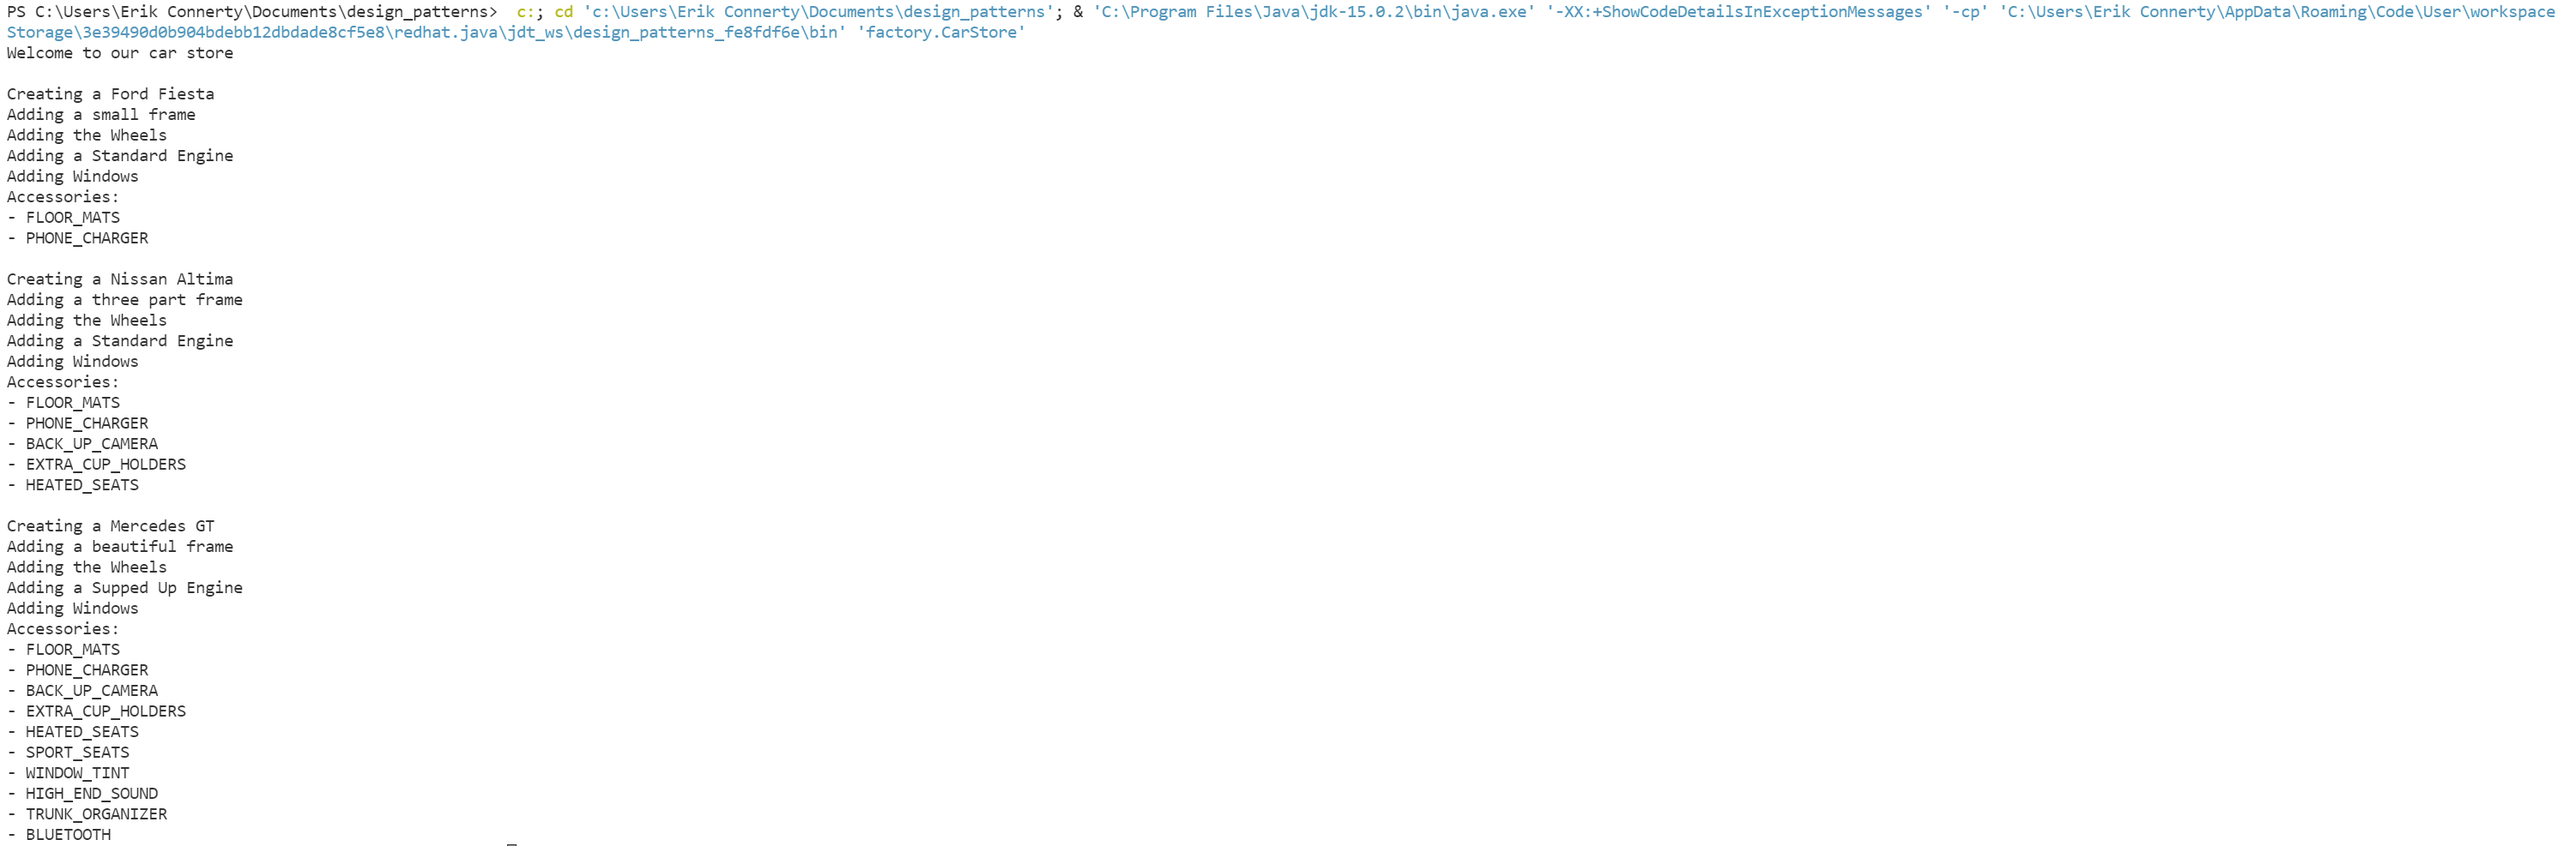
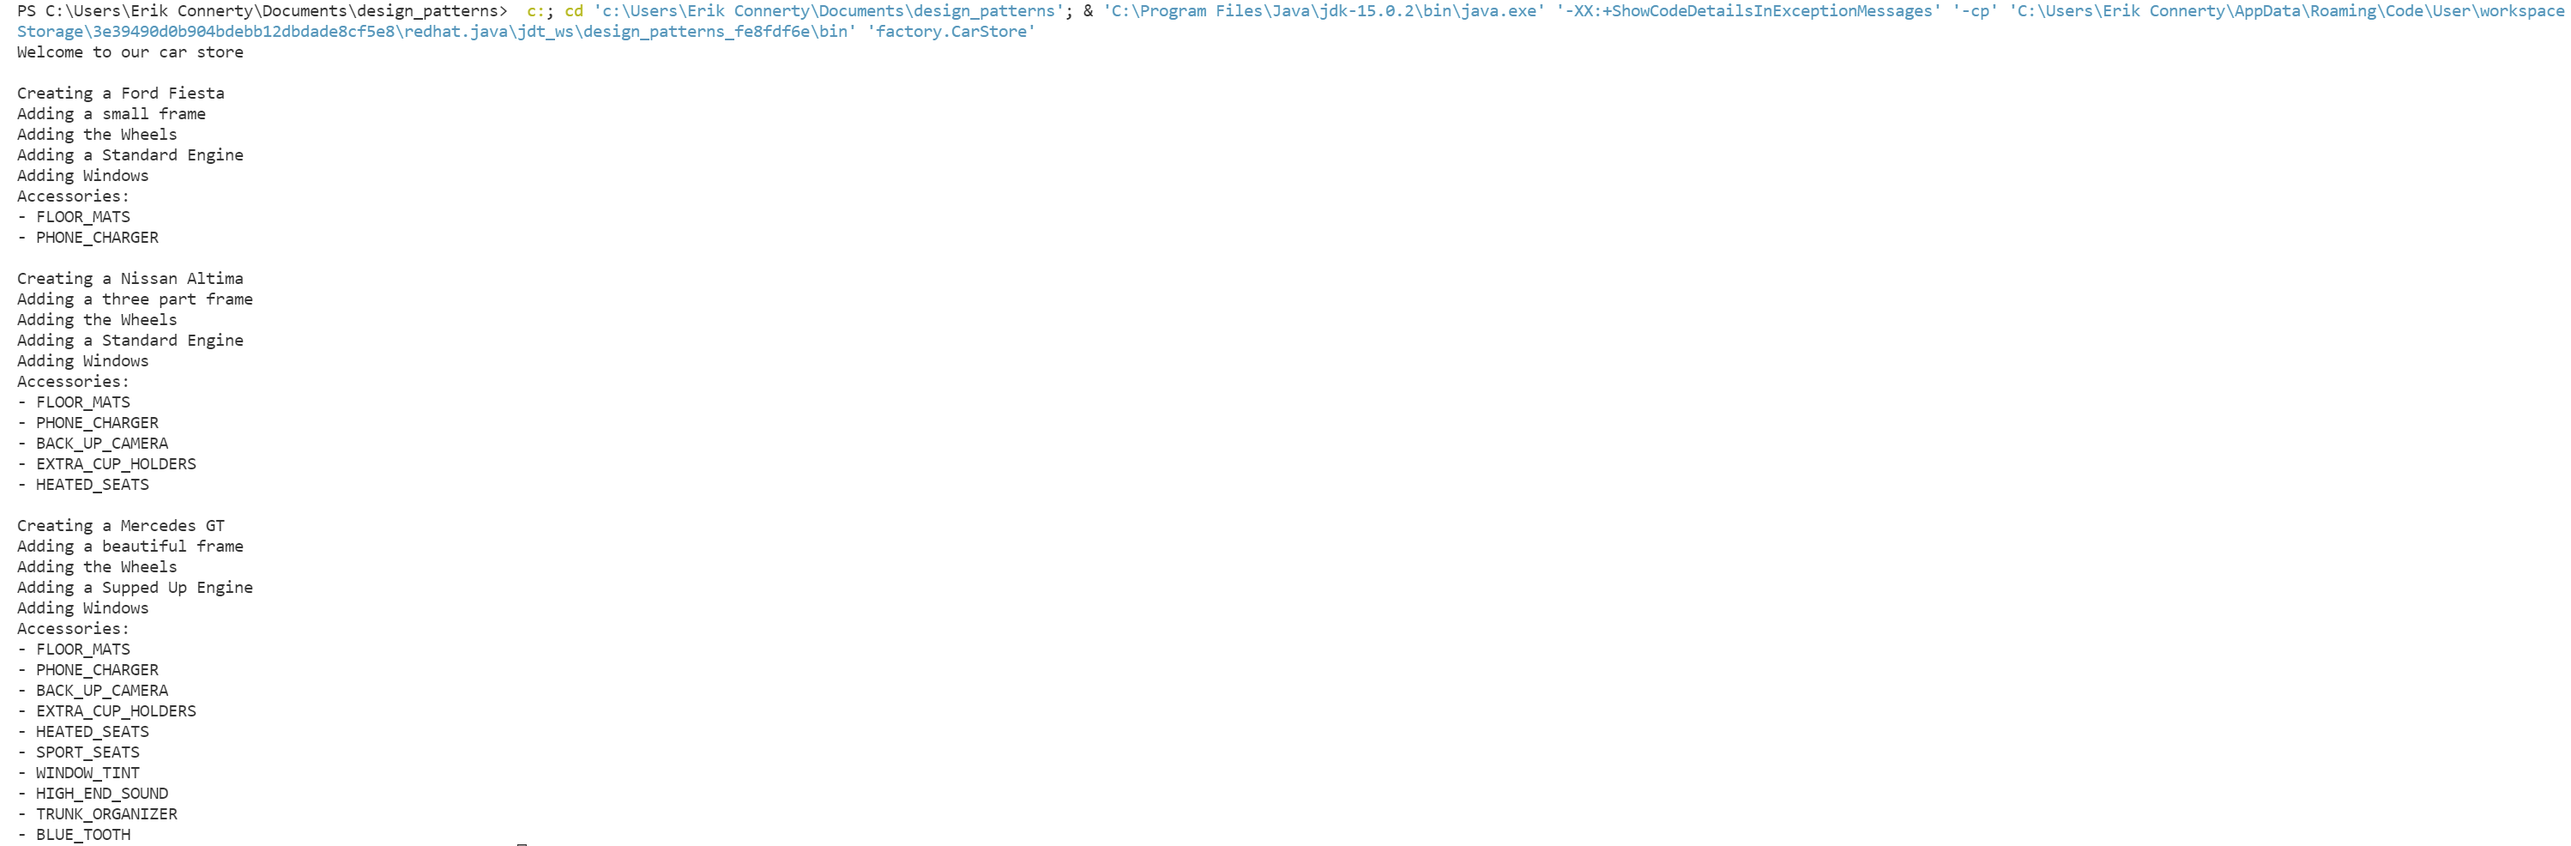
Fix typo

Changed region(s): [[0.0, 0.0, 1.0, 0.5781], [0.0, 0.6085, 0.0931, 1.0]]

diff --git a/factory/Accessories.java b/factory/Accessories.java
@@ -6,5 +6,5 @@ package factory;
  */
 
 public enum Accessories {
-    SPORT_SEATS, WINDOW_TINT, HEATED_SEATS, HIGH_END_SOUND, TRUNK_ORGANIZER, BACK_UP_CAMERA, FLOOR_MATS, BLUETOOTH, EXTRA_CUP_HOLDERS, PHONE_CHARGER
+    SPORT_SEATS, WINDOW_TINT, HEATED_SEATS, HIGH_END_SOUND, TRUNK_ORGANIZER, BACK_UP_CAMERA, FLOOR_MATS, BLUE_TOOTH, EXTRA_CUP_HOLDERS, PHONE_CHARGER
 }

diff --git a/factory/LuxuryCar.java b/factory/LuxuryCar.java
@@ -33,7 +33,7 @@ public class LuxuryCar extends Car {
         this.accessories.add(Accessories.WINDOW_TINT);
         this.accessories.add(Accessories.HIGH_END_SOUND);
         this.accessories.add(Accessories.TRUNK_ORGANIZER);
-        this.accessories.add(Accessories.BLUETOOTH);
+        this.accessories.add(Accessories.BLUE_TOOTH);
 
     }
 }
